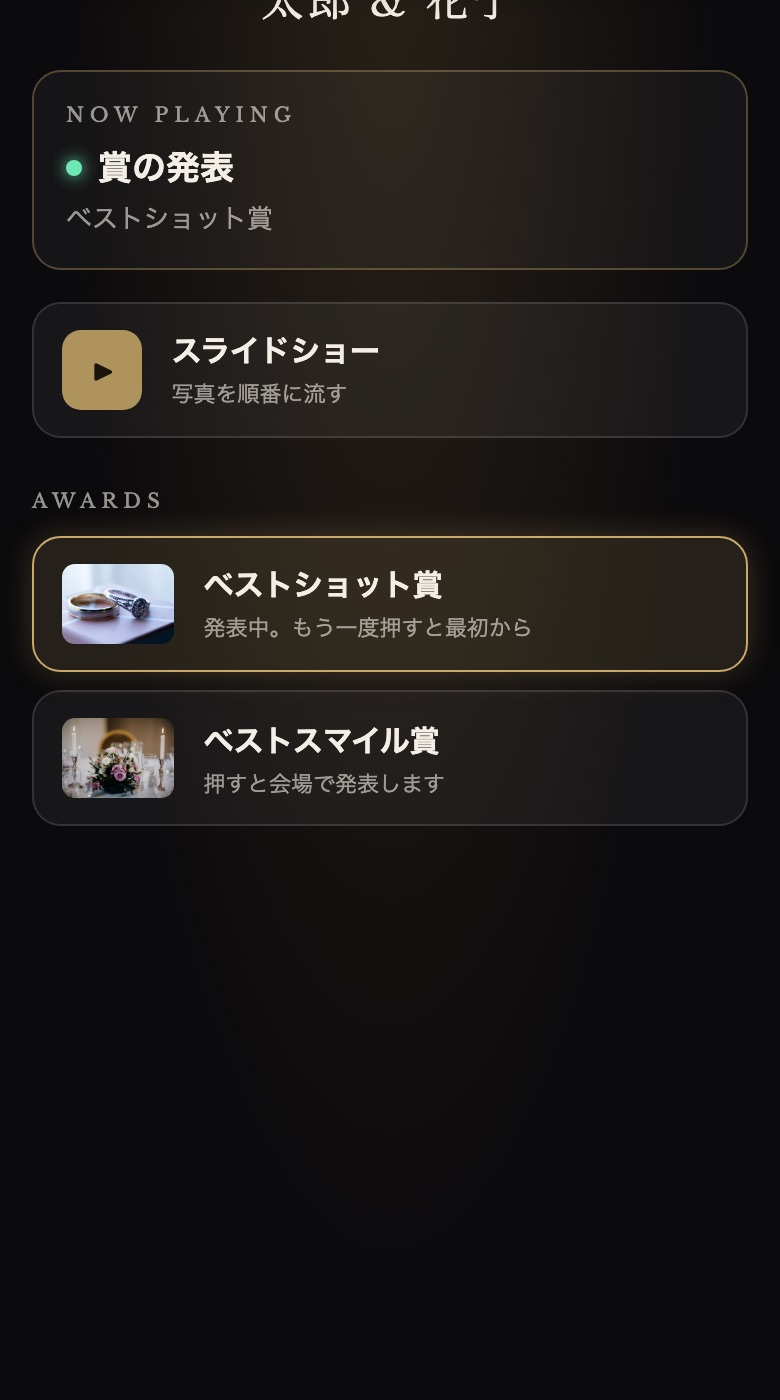
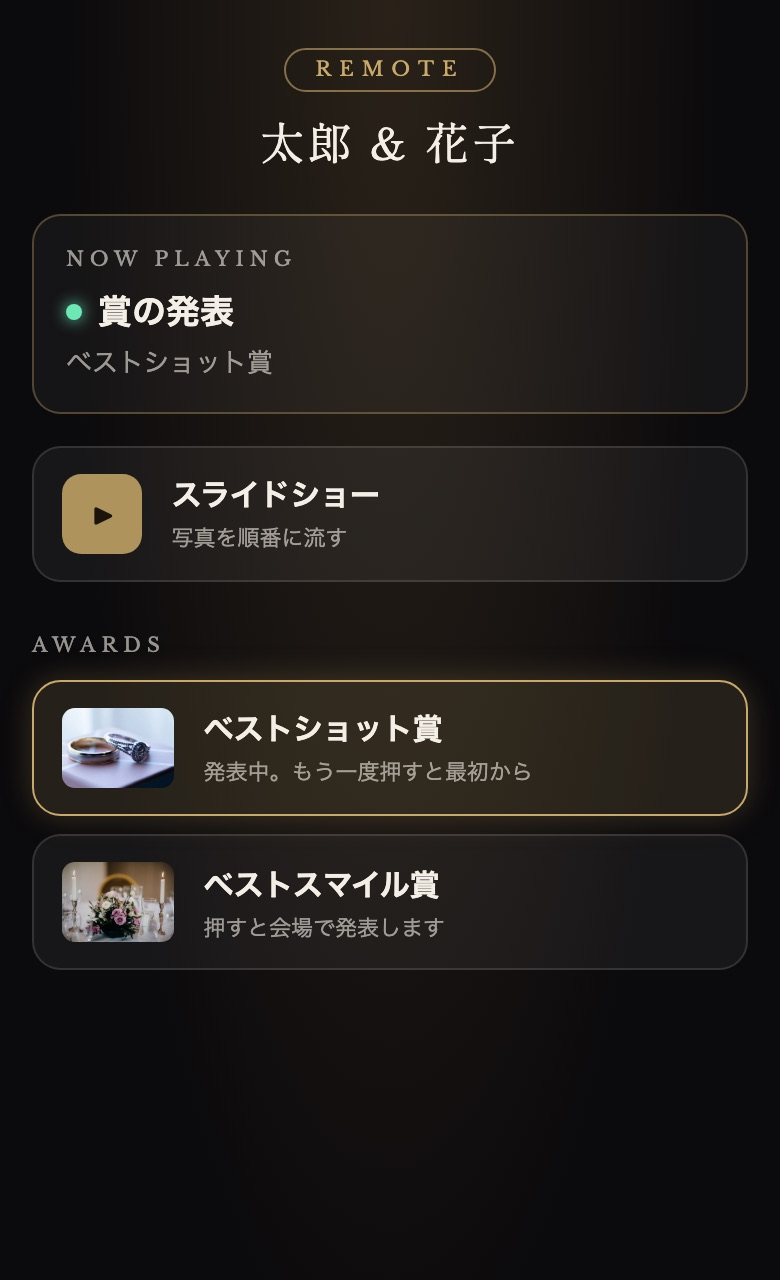
docs: 上端の欠けた画像を撮り直し、残った操作の節にも画面を載せる
スマートフォンの幅で撮った画面のうち、高さを詰めるときに上端が欠けたものが
4 枚あった（スライドショーのリモコン、メンバー管理、退会からの復旧、セットの
購入完了）。画面の上から撮り直した。リモコンは、操作前の状態の画像が発表中に
なっていたのも直した。

あわせて、画面の操作を説明している節のうち、退会するとどうなるかと、ISUM の
申請の前にの 2 節に、同じ画面の既存の画像を載せた。

Claude-Session: https://claude.ai/code/session_01BPdx93WUPWfftsZH6c1gfi

diff --git a/src/content/docs/opening-movie-isum.md b/src/content/docs/opening-movie-isum.md
@@ -22,6 +22,8 @@ title: "ISUM 代行申請"
 
 曲名だけで申請したときは、申請が完了するまで、プレビューでは既定の曲「とびきりハッピーな日」が流れます。動画の書き出しは、申請の完了後にできるようになります。
 
+![「BGM 設定」で「好きな曲を使う（ISUM の代行申請）」を選んだ画面。「申請のしかた」で、曲名だけで申請するか音源ファイルを添付して申請するかを選ぶ](./images/opening-movie-isum/bgm-isum.jpg)
+
 ---
 
 ## 2. 料金 {#price}
